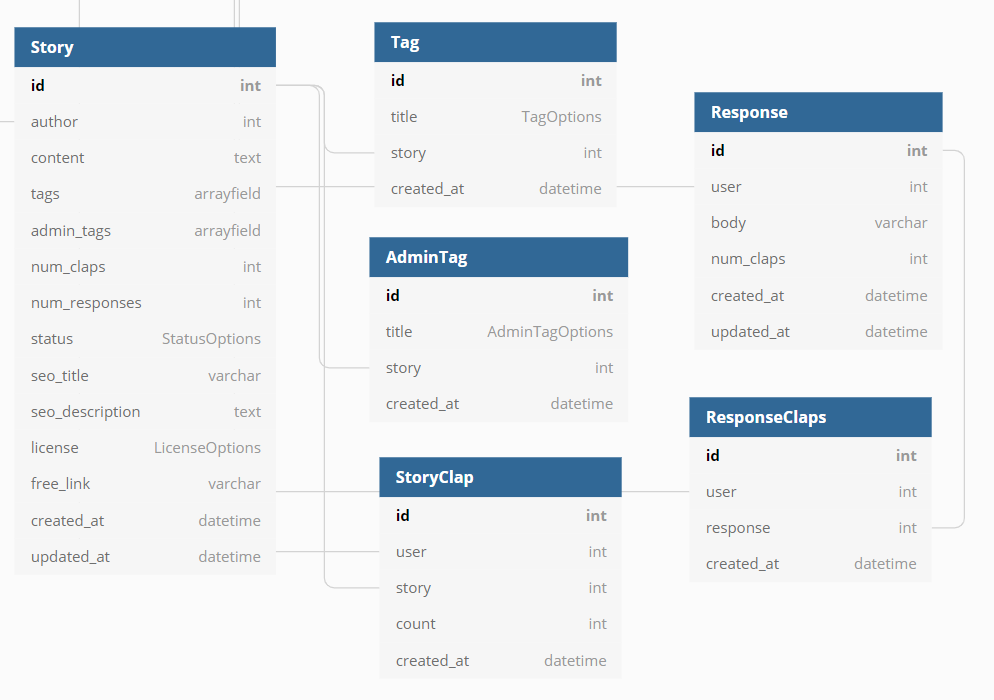
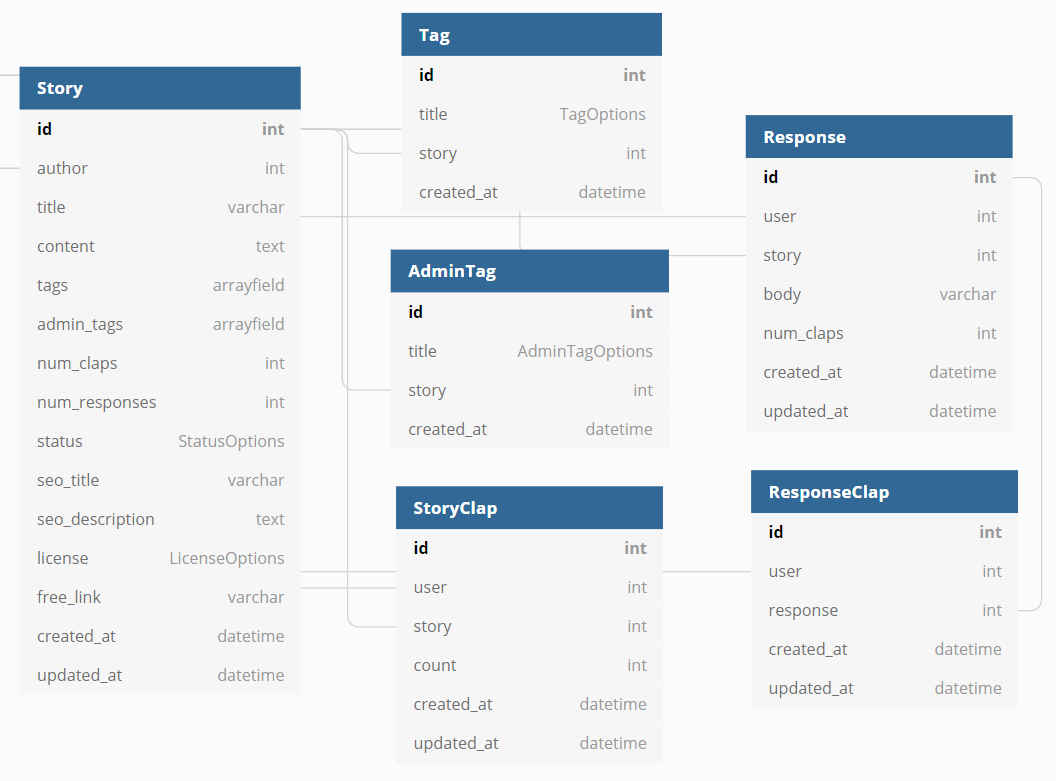
Add Story App Models

diff --git a/stories/migrations/0005_admintag_response_responseclap_storyclap.py b/stories/migrations/0005_admintag_response_responseclap_storyclap.py
@@ -1,0 +1,58 @@
+# Generated by Django 3.0.3 on 2020-03-03 22:39
+
+from django.conf import settings
+from django.db import migrations, models
+import django.db.models.deletion
+
+
+class Migration(migrations.Migration):
+
+    dependencies = [
+        migrations.swappable_dependency(settings.AUTH_USER_MODEL),
+        ('stories', '0004_tag'),
+    ]
+
+    operations = [
+        migrations.CreateModel(
+            name='Response',
+            fields=[
+                ('id', models.AutoField(auto_created=True, primary_key=True, serialize=False, verbose_name='ID')),
+                ('body', models.TextField()),
+                ('num_claps', models.IntegerField()),
+                ('created_at', models.DateTimeField(auto_now_add=True)),
+                ('updated_at', models.DateTimeField(auto_now=True)),
+                ('user', models.ForeignKey(on_delete=django.db.models.deletion.CASCADE, to=settings.AUTH_USER_MODEL)),
+            ],
+        ),
+        migrations.CreateModel(
+            name='StoryClap',
+            fields=[
+                ('id', models.AutoField(auto_created=True, primary_key=True, serialize=False, verbose_name='ID')),
+                ('count', models.IntegerField()),
+                ('created_at', models.DateTimeField(auto_now_add=True)),
+                ('updated_at', models.DateTimeField(auto_now=True)),
+                ('story', models.ForeignKey(on_delete=django.db.models.deletion.CASCADE, to='stories.Story')),
+                ('user', models.ForeignKey(on_delete=django.db.models.deletion.CASCADE, to=settings.AUTH_USER_MODEL)),
+            ],
+        ),
+        migrations.CreateModel(
+            name='ResponseClap',
+            fields=[
+                ('id', models.AutoField(auto_created=True, primary_key=True, serialize=False, verbose_name='ID')),
+                ('num_claps', models.IntegerField()),
+                ('created_at', models.DateTimeField(auto_now_add=True)),
+                ('updated_at', models.DateTimeField(auto_now=True)),
+                ('response', models.ForeignKey(on_delete=django.db.models.deletion.CASCADE, to='stories.Response')),
+                ('user', models.ForeignKey(on_delete=django.db.models.deletion.CASCADE, to=settings.AUTH_USER_MODEL)),
+            ],
+        ),
+        migrations.CreateModel(
+            name='AdminTag',
+            fields=[
+                ('id', models.AutoField(auto_created=True, primary_key=True, serialize=False, verbose_name='ID')),
+                ('title', models.CharField(max_length=120)),
+                ('created_at', models.DateTimeField(auto_now_add=True)),
+                ('story', models.ForeignKey(on_delete=django.db.models.deletion.CASCADE, to='stories.Story')),
+            ],
+        ),
+    ]

diff --git a/stories/models.py b/stories/models.py
@@ -36,3 +36,34 @@ class Story(models.Model):
         verbose_name = 'Story'
         verbose_name_plural = 'Stories'
 
+class Tag(models.Model):
+    title = models.CharField(max_length=120)
+    story = models.ForeignKey(Story, on_delete=models.CASCADE)
+    created_at = models.DateTimeField(auto_now_add=True)
+
+class AdminTag(models.Model):
+    title = models.CharField(max_length=120)
+    story = models.ForeignKey(Story, on_delete=models.CASCADE)
+    created_at = models.DateTimeField(auto_now_add=True)
+
+class StoryClap(models.Model):
+    user = models.ForeignKey(User, on_delete=models.CASCADE)
+    story = models.ForeignKey(Story, on_delete=models.CASCADE)
+    count = models.IntegerField()
+    created_at = models.DateTimeField(auto_now_add=True)
+    updated_at = models.DateTimeField(auto_now=True)
+
+class Response(models.Model):
+    user = models.ForeignKey(User, on_delete=models.CASCADE)
+    story = models.ForeignKey(Story, on_delete=models.CASCADE)
+    body = models.TextField()
+    num_claps = models.IntegerField()
+    created_at = models.DateTimeField(auto_now_add=True)
+    updated_at = models.DateTimeField(auto_now=True)
+
+class ResponseClap(models.Model):
+    user = models.ForeignKey(User, on_delete=models.CASCADE)
+    response = models.ForeignKey(Response, on_delete=models.CASCADE)
+    num_claps = models.IntegerField()
+    created_at = models.DateTimeField(auto_now_add=True)
+    updated_at = models.DateTimeField(auto_now=True)

diff --git a/stories/migrations/0004_tag.py b/stories/migrations/0004_tag.py
@@ -1,0 +1,23 @@
+# Generated by Django 3.0.3 on 2020-03-03 22:27
+
+from django.db import migrations, models
+import django.db.models.deletion
+
+
+class Migration(migrations.Migration):
+
+    dependencies = [
+        ('stories', '0003_story_seo_description'),
+    ]
+
+    operations = [
+        migrations.CreateModel(
+            name='Tag',
+            fields=[
+                ('id', models.AutoField(auto_created=True, primary_key=True, serialize=False, verbose_name='ID')),
+                ('title', models.CharField(max_length=120)),
+                ('created_at', models.DateTimeField(auto_now_add=True)),
+                ('story', models.ForeignKey(on_delete=django.db.models.deletion.CASCADE, to='stories.Story')),
+            ],
+        ),
+    ]

diff --git a/stories/migrations/0006_response_story.py b/stories/migrations/0006_response_story.py
@@ -1,0 +1,20 @@
+# Generated by Django 3.0.3 on 2020-03-03 22:43
+
+from django.db import migrations, models
+import django.db.models.deletion
+
+
+class Migration(migrations.Migration):
+
+    dependencies = [
+        ('stories', '0005_admintag_response_responseclap_storyclap'),
+    ]
+
+    operations = [
+        migrations.AddField(
+            model_name='response',
+            name='story',
+            field=models.ForeignKey(default=1, on_delete=django.db.models.deletion.CASCADE, to='stories.Story'),
+            preserve_default=False,
+        ),
+    ]

diff --git a/stories/admin.py b/stories/admin.py
@@ -1,5 +1,10 @@
 from django.contrib import admin
-from stories.models import Story
+from stories.models import Story, Tag, AdminTag, StoryClap, Response, ResponseClap
 
 # Register your models here.
 admin.site.register(Story)
+admin.site.register(Tag)
+admin.site.register(AdminTag)
+admin.site.register(StoryClap)
+admin.site.register(Response)
+admin.site.register(ResponseClap)
